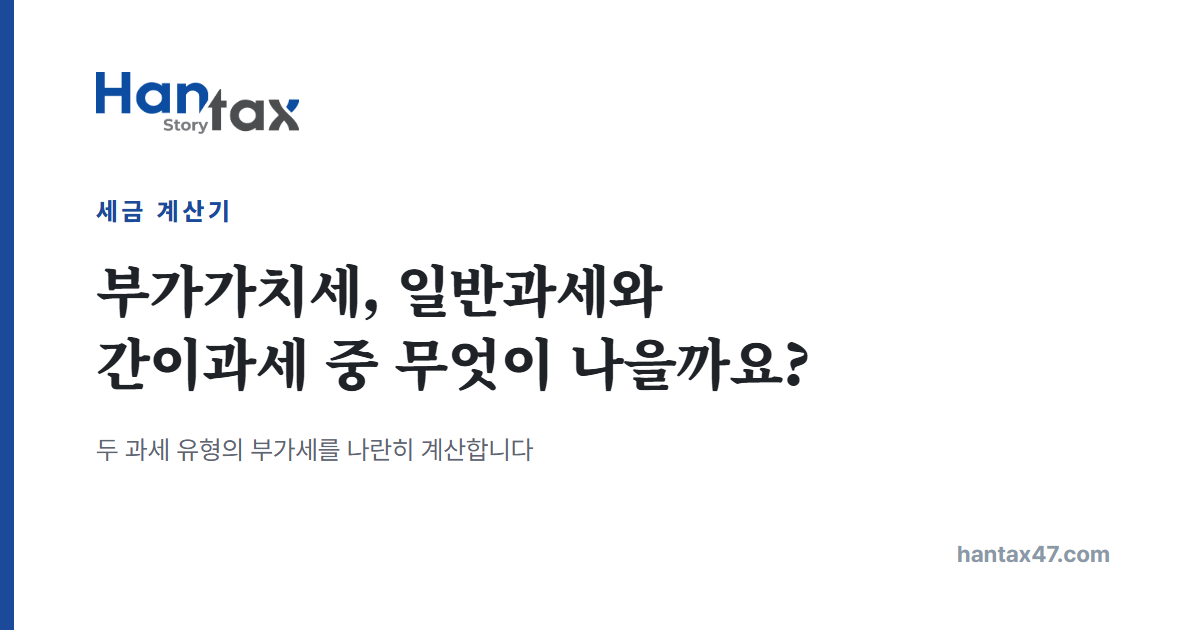
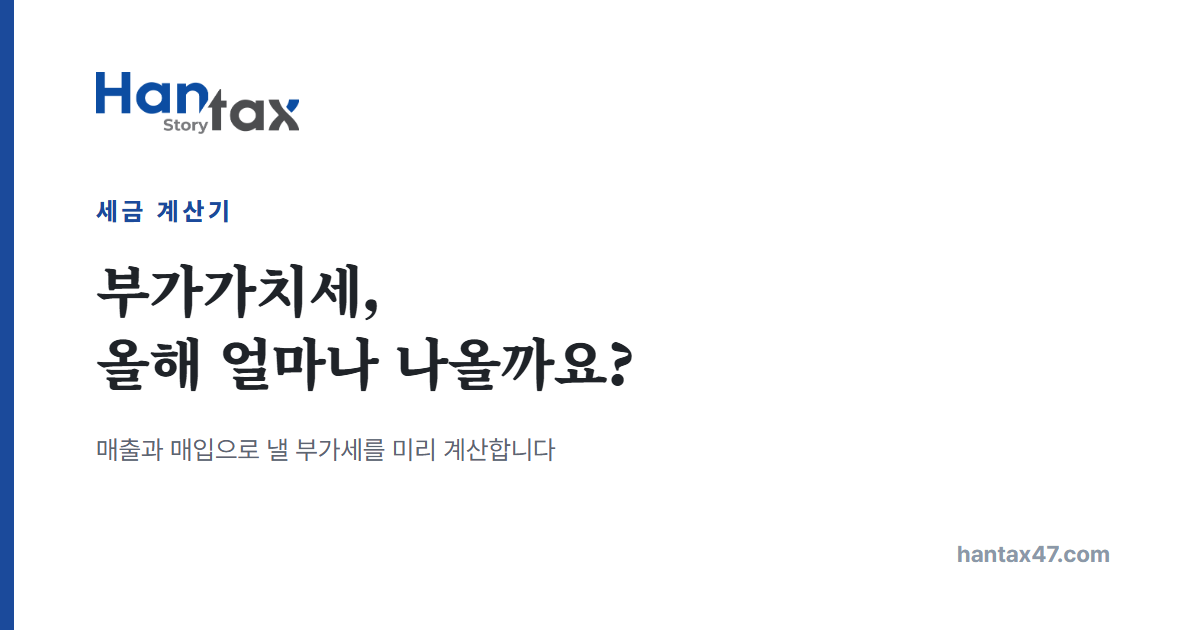
부가가치세 계산기 제목 변경: 올해 부가세, 얼마나 나올까요?
일반과세와 간이과세는 사장님이 고르는 게 아니고 간이과세자도 드물어, 비교형 제목("일반과세와 간이과세 중 무엇이 나을까요?")이 관심을 끌기 어렵다는 사용자 판단. 제목을 예상 세액형으로 바꾸고 간이과세 금액은 "함께 보여 드립니다"로 뒤에 둠. 브라우저 탭 제목·검색 설명·카톡 미리보기(이미지 재생성, 캐시 우회 ?v=2)·페이지 제목과 소개문·계산기 목록 카드·메인 카드를 같은 문구로. 계산 방식과 결과표는 그대로.

Changed region(s): [[0.0617, 0.5127, 0.6783, 0.6333], [0.3083, 0.4222, 0.555, 0.5127], [0.0617, 0.6937, 0.4625, 0.754]]

diff --git a/tools/vat.html b/tools/vat.html
@@ -3,14 +3,14 @@
 <head>
 <meta charset="UTF-8">
 <meta name="viewport" content="width=device-width, initial-scale=1.0">
-<title>부가가치세 계산기 2026, 일반과세자와 간이과세자 비교 | 한택스</title>
-<meta name="description" content="한 해 매출과 매입을 넣으면 일반과세자와 간이과세자로 낼 부가가치세를 나란히 계산합니다. 신용카드매출세액공제와 음식점 의제매입세액공제를 반영합니다.">
+<title>부가가치세 계산기 2026, 올해 부가세 얼마나 나올까요? | 한택스</title>
+<meta name="description" content="한 해 매출과 매입을 넣으면 낼 부가가치세를 미리 계산합니다. 신용카드매출세액공제와 음식점 의제매입세액공제를 반영하고, 간이과세자일 때 금액도 함께 보여 드립니다.">
 <link rel="canonical" href="https://www.hantax47.com/tools/vat.html">
-<meta property="og:title" content="부가가치세, 일반과세와 간이과세 중 무엇이 나을까요?">
-<meta property="og:description" content="일반과세자와 간이과세자의 부가가치세를 나란히 비교하는 계산기">
+<meta property="og:title" content="부가가치세, 올해 얼마나 나올까요?">
+<meta property="og:description" content="매출과 매입으로 낼 부가세를 미리 계산하는 계산기">
 <meta property="og:type" content="website">
 <meta property="og:url" content="https://www.hantax47.com/tools/vat.html">
-<meta property="og:image" content="https://www.hantax47.com/assets/og/tool-vat.png">
+<meta property="og:image" content="https://www.hantax47.com/assets/og/tool-vat.png?v=2">
 <meta property="og:site_name" content="한택스">
 <link rel="icon" href="../assets/favicon.png?v=4">
 <link rel="preconnect" href="https://fonts.googleapis.com">
@@ -108,8 +108,8 @@
 <section class="page-head">
   <div class="wrap">
     <span class="eyebrow">세무설계</span>
-    <h1>부가가치세, 일반과세와<br>간이과세 중 무엇이 나을까요?</h1>
-    <p class="lead">한 해 매출과 매입을 넣으면 일반과세자와 간이과세자로 낼 부가가치세를 나란히 계산합니다. 카드 매출 공제와 음식점 의제매입세액공제도 반영합니다.</p>
+    <h1>부가가치세,<br>올해 얼마나 나올까요?</h1>
+    <p class="lead">한 해 매출과 매입을 넣으면 낼 부가가치세를 미리 계산합니다. 카드 매출 공제와 음식점 의제매입세액공제를 반영하고, 간이과세자라면 얼마인지도 함께 보여 드립니다.</p>
   </div>
 </section>
 

diff --git a/tools/index.html b/tools/index.html
@@ -117,8 +117,8 @@
 
       <a class="tool" href="vat.html">
         <span class="no">08</span>
-        <b>부가가치세, 일반과세와<br>간이과세 중 무엇이 나을까요?</b>
-        <p>한 해 매출과 매입으로 일반과세자와 간이과세자의 부가세를 나란히 계산합니다. 카드 매출 공제와 음식점 의제매입세액공제도 넣었습니다.</p>
+        <b>부가가치세,<br>올해 얼마나 나올까요?</b>
+        <p>한 해 매출과 매입으로 낼 부가세를 미리 계산합니다. 카드 매출 공제와 음식점 의제매입세액공제를 반영하고, 간이과세자일 때 금액도 함께 보여 드립니다.</p>
         <span class="go">계산해 보기</span>
       </a>
 

diff --git a/index.html b/index.html
@@ -327,7 +327,7 @@
       </a>
       <a class="toolcard" href="tools/vat.html">
         <span>부가가치세</span>
-        <b>일반과세와 간이과세, 무엇이 나을까요?</b>
+        <b>올해 부가세, 얼마나 나올까요?</b>
       </a>
       <a class="toolcard" href="tools/stock-value.html">
         <span>비상장주식 평가</span>
